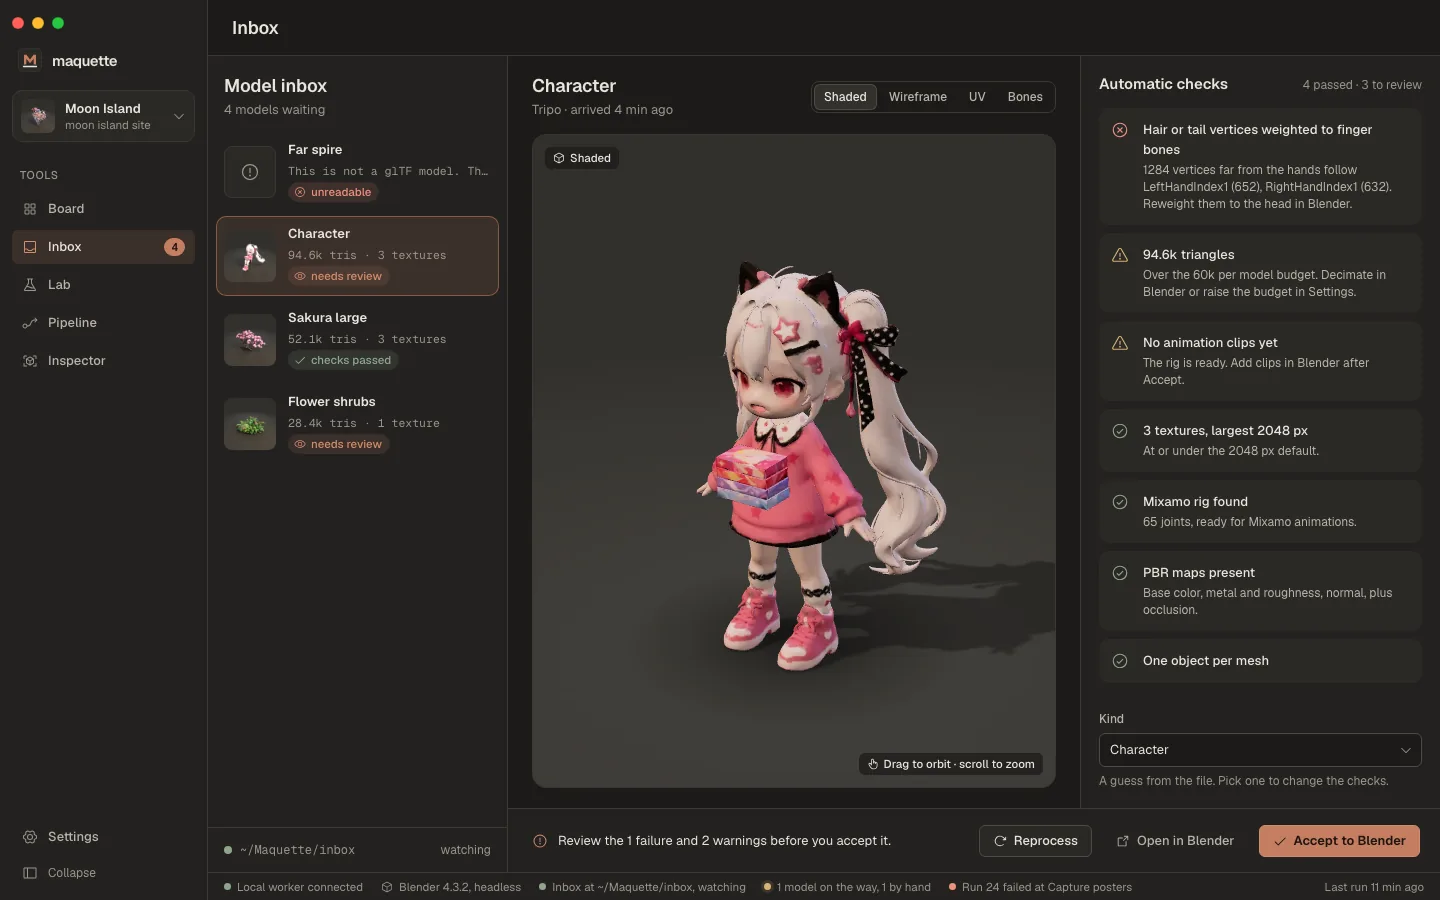
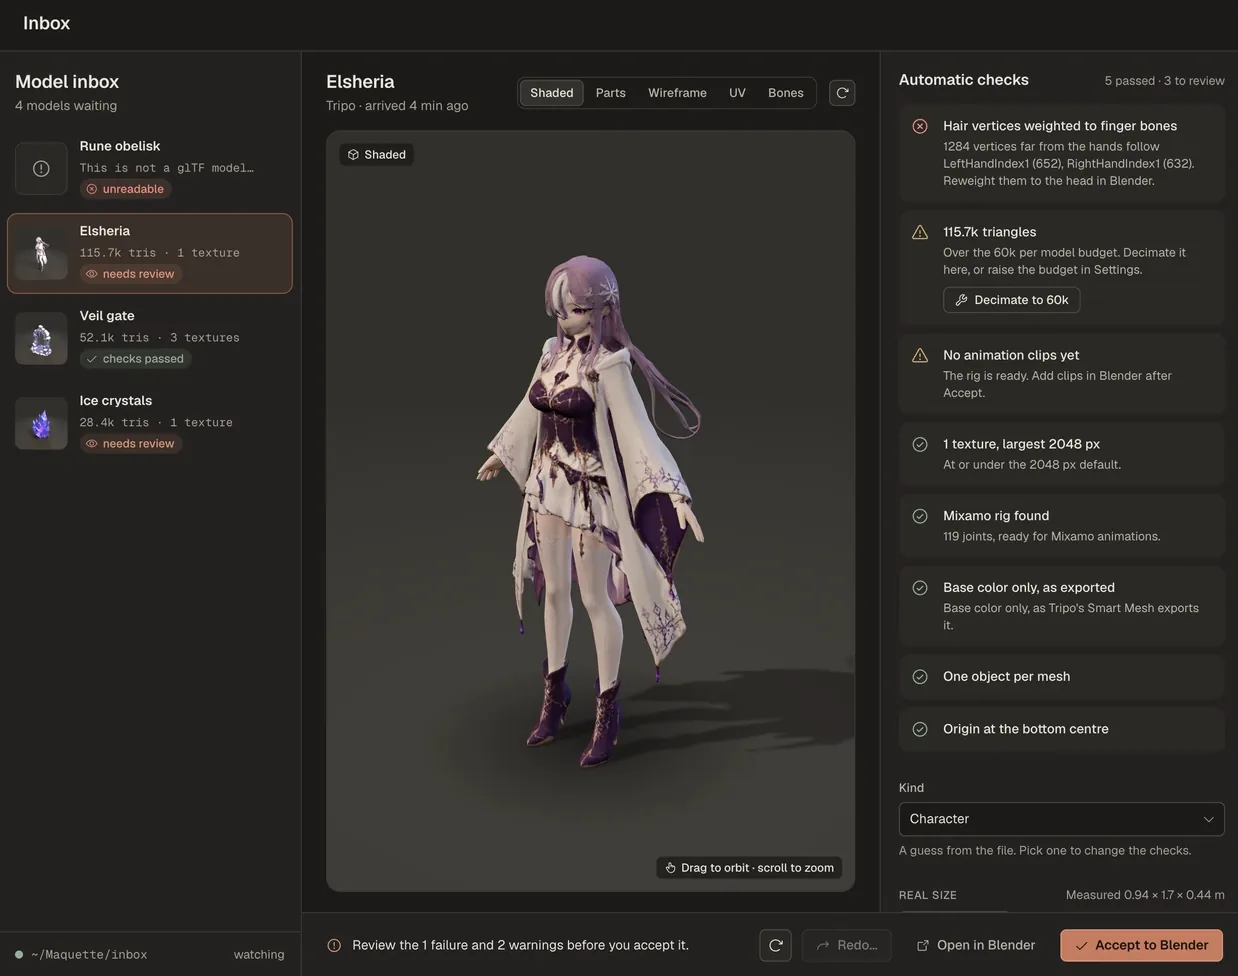
feat(site): show the v0.2.0 features on the page
The style board in Concept, refs by view and their warnings in Refs, the Downloads watch in
3D model, Parts in the Inspector, and an Animations library section with the retarget
review. The new shots are crops of the reshot README images, and a pair of shots now
shares one height.

diff --git a/apps/site/src/content/copy.ts b/apps/site/src/content/copy.ts
@@ -88,31 +88,39 @@ export interface Stage {
 export const STAGES: readonly Stage[] = [
   {
     id: 'concept',
-    short: 'A brief and refs become Codex CLI image jobs, four at a time.',
+    short: 'A brief, refs and the style board become Codex CLI image jobs.',
     title: 'Concept',
     body: 'Write a brief, drop in up to 8 reference images and pick how many concepts you want. Each image is one Codex CLI job, four at a time. Star the good ones, pick the keepers, send picks to Refs.',
-    chips: ['codex exec', '1 to 12 images', 'contact sheet'],
+    note: 'A style board per project (a line about the look, a palette and up to four images) goes with every job, so the concepts stay in one style.',
+    chips: ['codex exec', 'style board', '1 to 12 images'],
     shots: [
       {
-        ...screen('lab'),
-        alt: 'The Concept lab with a brief on the left and six generated concepts, one picked.',
+        ...screen('lab', 1238, 976),
+        alt: 'The Concept lab with a brief for a frozen lake arena on the left and six generated concepts, one picked.',
         tool: 'Lab',
-        caption: 'Moon island porch, 6 concepts, 1 picked',
+        caption: 'Frozen lake arena, 6 concepts, 1 picked',
       },
     ],
   },
   {
     id: 'refs',
-    short: 'Picks land in refs/ and the card moves on the Board.',
+    short: 'Picks land in refs/, tagged front, left, back or right.',
     title: 'Refs',
-    body: "Picked images are copied into the project's refs folder and the asset moves to Refs on the Board. From here every card shows where it stands: queued, generating, waiting for your model, done.",
-    chips: ['refs/', 'Board'],
+    body: "Picked images are copied into the project's refs folder and the asset moves to Refs on the Board. Tag each ref as the front, left, back or right view. Make the other views draws the missing ones from the front, and Clean background clears a busy one.",
+    note: 'Before a send, a ref that is small, cropped, busy, the only view, or looks different from the front gets a warning with its fix. Warnings never block the send.',
+    chips: ['refs/', 'front, left, back, right', 'Clean background'],
     shots: [
+      {
+        ...screen('refs-views', 516, 1000),
+        alt: 'Send to 3D panel for a statue: one ref tagged Front, one tagged Back, and three ref warnings with Clean background and Make the other views.',
+        tool: 'Refs by view',
+        caption: 'front and back tagged, 3 ref warnings',
+      },
       {
         ...screen('board'),
         alt: 'The Board with six columns, Concept to Ship, and asset cards with thumbnails and status.',
         tool: 'Board',
-        caption: 'Moon Island, 8 assets',
+        caption: 'every card shows where it stands',
       },
     ],
   },
@@ -120,9 +128,9 @@ export const STAGES: readonly Stage[] = [
     id: 'model',
     short: 'Tripo, Meshy, or by hand with a settings card and no credits.',
     title: '3D model',
-    body: 'Send refs to Tripo or Meshy from your preset, or make the model yourself in their web app. By hand spends nothing: Maquette writes a folder with the images and a settings card, then waits for the GLB.',
-    note: 'A job sent before you quit keeps polling after a restart instead of paying again.',
-    chips: ['Tripo', 'Meshy', 'By hand'],
+    body: 'Send refs to Tripo or Meshy from your preset, or make the model yourself in their web app. By hand spends nothing: Maquette writes a folder with the images and a settings card, then watches your Downloads for the GLB.',
+    note: 'A download named for its send goes to the inbox by itself. One whose name is only close waits for you to confirm, and any other can be attached to the asset it belongs to.',
+    chips: ['Tripo', 'Meshy', 'By hand', 'Downloads watch'],
     shots: [
       {
         ...screen('send-tripo', 540, 900),
@@ -187,10 +195,28 @@ export const STAGES: readonly Stage[] = [
 
 export const SHOTS = {
   inbox: {
-    ...screen('inbox'),
+    ...screen('inbox', 1238, 976),
     alt: 'Model inbox: a character with one failed check and two warnings before Accept to Blender.',
     tool: 'Inbox',
-    caption: '4 models waiting, 1 failure and 2 warnings on Character',
+    caption: '4 models waiting, 1 failure and 2 warnings on a character',
+  },
+  parts: {
+    ...screen('parts', 1238, 976),
+    alt: 'Inspector, Parts tab: a lantern split into five coloured parts, two selected, with Merge, Hide and Assemble a prop.',
+    tool: 'Parts',
+    caption: '5 parts, split in Blender',
+  },
+  animations: {
+    ...screen('animations', 880, 976),
+    alt: 'Animations library: 16 clips in four packs, tagged combat, dodge, magic and locomotion, each with its length and root motion.',
+    tool: 'Animations',
+    caption: '16 clips, 933 KB, skeleton only',
+  },
+  retarget: {
+    ...screen('retarget', 1226, 722),
+    alt: 'Review the retarget: four clips, one failed, sword run with the feet pinned and the slide down from 4.2 cm to 0.3 cm, source skeleton next to the model.',
+    tool: 'Use on model',
+    caption: 'the review before the bake, feet pinned',
   },
   compare: {
     ...screen('inspector-compare'),
